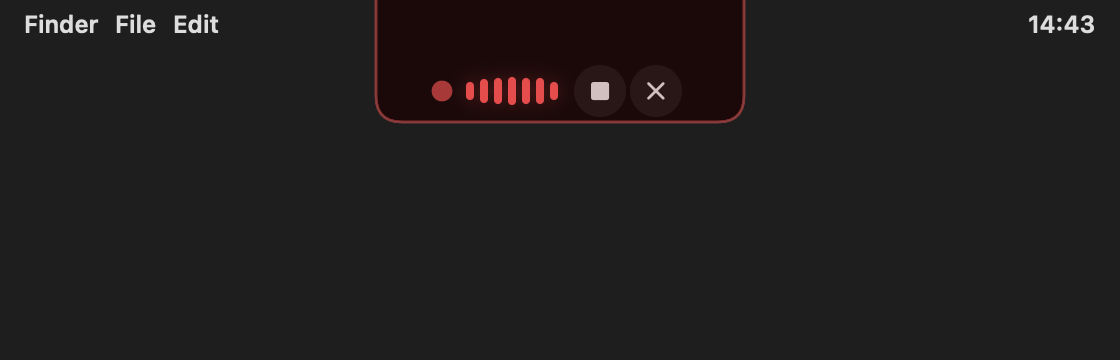
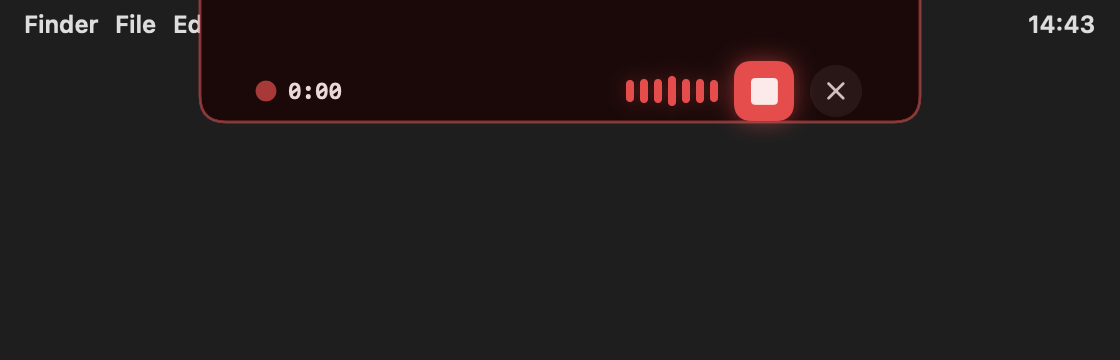
feat(flow-bar): v9 corrected — flank the island + bigger stop + soft corners
Etan-approved build (override 2026-06-11): apply the 3 verified-mock refinements
to v8's approved UI (#277 base).

- #2/#3 layout: recording indicators flank the camera island — left wing (● +
  elapsed timer), transparent island gap (Theme.notchIslandWidth), right wing
  (waveform + bigger ◼ stop + ✕ cancel). New recordingWings in BarView; recording
  pill width 154→330 to straddle the notch.
- bigger stop: Theme.stopButtonSize/stopButtonGlyphSize (30/16) — a red glowing ◼
  stopButton used in the recording wing and the speaking transport.
- #1 corners: NotchShape softens attached-panel corners by ~5px
  (Theme.notchAttachedCornerRadius) instead of v8's square 0 — '90° but curved a
  bit', not the rejected funnel. New NotchShape.cornerRadius(hasAttachedPanel:rectHeight:).
- VoiceState.recordingStartedAtForDisplay exposes the recording start for the wing timer.
- NotchV9RefinementTests: 8 contract tests. swift test 345/0. Native hitTest only —
  BoundaryContractTests (forbidden-API gate) stays green. Flanking is pure SwiftUI
  layout, no anchor/pointer code touched.

diff --git a/flow-bar/Sources/VoiceBarUI/BarView.swift b/flow-bar/Sources/VoiceBarUI/BarView.swift
@@ -155,6 +155,9 @@ public struct BarView: View {
         Group {
             if state.mode == .speaking {
                 speakingPanel
+            } else if state.mode == .recording {
+                // v9 refinement #2/#3: live indicators flank the camera island.
+                recordingWings
             } else {
                 HStack(spacing: 8) {
                     leadingIndicator
@@ -237,7 +240,7 @@ public struct BarView: View {
                     .help("Restart")
                 pillButton(icon: "pause.fill") {}
                     .help("Pause")
-                pillButton(icon: "stop.fill") { commandRouter.handleStop() }
+                stopButton { commandRouter.handleStop() }
                     .help("Stop")
                 if state.isBlockingQuestionWaitingForUser {
                     HStack(spacing: 5) {
@@ -615,6 +618,69 @@ public struct BarView: View {
             transcriptionVocabularyAliases: state.transcriptionVocabularyAliases,
             canReplay: state.canReplay
         )
+    }
+
+    // MARK: - v9 recording wings (flank the camera island)
+
+    private var recordingWings: some View {
+        HStack(spacing: 0) {
+            HStack(spacing: 7) {
+                PulsingDot()
+                recordingTimer
+            }
+            .frame(maxWidth: .infinity, alignment: .leading)
+
+            // Transparent gap straddling the physical camera island.
+            Color.clear.frame(width: Theme.notchIslandWidth, height: 1)
+
+            HStack(spacing: 8) {
+                WaveformView(
+                    mode: state.speechDetected ? .speechDetected : .listening,
+                    audioLevel: state.audioLevel
+                )
+                stopButton { commandRouter.handleStop() }
+                pillButton(icon: "xmark") { commandRouter.handleCancel() }
+            }
+            .frame(maxWidth: .infinity, alignment: .trailing)
+        }
+        .accessibilityElement(children: .combine)
+        .accessibilityLabel("Recording")
+    }
+
+    private var recordingTimer: some View {
+        TimelineView(.periodic(from: .now, by: 1)) { _ in
+            Text(recordingElapsedText)
+                .font(.system(size: 11, weight: .semibold, design: .monospaced))
+                .monospacedDigit()
+                .foregroundStyle(.white.opacity(0.92))
+        }
+    }
+
+    private var recordingElapsedText: String {
+        guard let start = state.recordingStartedAtForDisplay else { return "0:00" }
+        let elapsed = max(0, Date().timeIntervalSince(start))
+        let seconds = Int(elapsed)
+        return String(format: "%d:%02d", seconds / 60, seconds % 60)
+    }
+
+    /// v9 refinement: a visibly larger ◼ stop button (red fill + glow) — the primary CTA.
+    private func stopButton(action: @escaping () -> Void) -> some View {
+        Button {
+            NSHapticFeedbackManager.defaultPerformer.perform(.alignment, performanceTime: .now)
+            action()
+        } label: {
+            Image(systemName: "stop.fill")
+                .font(.system(size: Theme.stopButtonGlyphSize, weight: .bold))
+                .foregroundStyle(.white)
+                .frame(width: Theme.stopButtonSize, height: Theme.stopButtonSize)
+                .background(Theme.recordingColor)
+                .clipShape(RoundedRectangle(cornerRadius: 8, style: .continuous))
+                .shadow(color: Theme.recordingColor.opacity(0.55), radius: 6)
+                .contentShape(RoundedRectangle(cornerRadius: 8, style: .continuous))
+        }
+        .buttonStyle(.plain)
+        .accessibilityLabel("Stop")
+        .transition(.scale.combined(with: .opacity))
     }
 
     // MARK: - Action buttons

diff --git a/flow-bar/Tests/VoiceBarUITests/NotchV9RefinementTests.swift b/flow-bar/Tests/VoiceBarUITests/NotchV9RefinementTests.swift
@@ -1,0 +1,57 @@
+import CoreGraphics
+@testable import VoiceBarUI
+import XCTest
+
+/// v9 (corrected) refinements — Etan-approved build (override 2026-06-11).
+///   #1 corners: attached-panel corners get a SLIGHT few-px softening, NOT the funnel.
+///   #2/#3 layout: live indicators flank the camera island (reserved island gap).
+///   bigger stop: the ◼ stop button is visibly larger than a standard pill button.
+final class NotchV9RefinementTests: XCTestCase {
+    // MARK: - #1 corner softening (few px, not square, not funnel)
+
+    func testAttachedCornerRadiusIsSmallNonZeroSoftening() {
+        XCTAssertGreaterThan(Theme.notchAttachedCornerRadius, 0)
+        XCTAssertLessThanOrEqual(Theme.notchAttachedCornerRadius, 6)
+    }
+
+    func testAttachedSofteningIsSmallerThanFreeStandingRounding() {
+        XCTAssertLessThan(Theme.notchAttachedCornerRadius, Theme.notchCornerRadius)
+    }
+
+    func testNotchShapeAppliesSofteningWhenPanelAttached() {
+        XCTAssertEqual(
+            NotchShape.cornerRadius(hasAttachedPanel: true, rectHeight: 200),
+            Theme.notchAttachedCornerRadius, accuracy: 0.001
+        )
+        XCTAssertEqual(
+            NotchShape.cornerRadius(hasAttachedPanel: false, rectHeight: 200),
+            Theme.notchCornerRadius, accuracy: 0.001
+        )
+    }
+
+    func testNotchShapeCornerRadiusNeverExceedsHalfHeight() {
+        XCTAssertLessThanOrEqual(NotchShape.cornerRadius(hasAttachedPanel: false, rectHeight: 6), 3)
+    }
+
+    // MARK: - #2 flanking: recording reserves the island gap
+
+    func testRecordingWidthAccommodatesIslandPlusTwoWings() {
+        let width = Theme.pillContentWidth(for: .recording, statusText: "Listening")
+        // Must fit the camera island gap plus a wing on each side.
+        XCTAssertGreaterThan(width, Theme.notchIslandWidth + 80)
+    }
+
+    func testIslandWidthIsPositive() {
+        XCTAssertGreaterThan(Theme.notchIslandWidth, 0)
+    }
+
+    // MARK: - bigger stop
+
+    func testStopButtonIsLargerThanStandardPillButton() {
+        XCTAssertGreaterThan(Theme.stopButtonSize, Theme.pillActionButtonSize)
+    }
+
+    func testStopButtonGlyphIsLargerThanStandardPillGlyph() {
+        XCTAssertGreaterThan(Theme.stopButtonGlyphSize, 11)
+    }
+}

diff --git a/flow-bar/Sources/VoiceBarUI/Theme.swift b/flow-bar/Sources/VoiceBarUI/Theme.swift
@@ -37,6 +37,16 @@ public enum Theme {
     public static let notchSideRadius: CGFloat = 11
     public static let notchFusionBandHeight: CGFloat = 23
     public static let notchCornerRadius: CGFloat = 13
+    /// v9 refinement #1 — attached-panel bottom corners are SLIGHTLY softened
+    /// ("90° like v8 but curved a bit"), a few px, NOT the rejected funnel.
+    /// v8 used 0 (fully square) when a panel was attached.
+    public static let notchAttachedCornerRadius: CGFloat = 5
+    /// v9 refinement #2 — width of the transparent gap that straddles the physical
+    /// camera island, so live indicators flank it left + right at menu-bar height.
+    public static let notchIslandWidth: CGFloat = 128
+    /// v9 refinement — the ◼ stop button is visibly larger than a standard pill button.
+    public static let stopButtonSize: CGFloat = 30
+    public static let stopButtonGlyphSize: CGFloat = 16
     /// Fixed panel envelope that keeps AppKit out of resize loops without
     /// leaving a large invisible draggable surface around the pill.
     public static let panelWidth: CGFloat = 420
@@ -90,7 +100,9 @@ public enum Theme {
     ) -> CGFloat {
         switch mode {
         case .recording:
-            return 154
+            // v9 refinement #2: wide enough to flank the camera island — left wing
+            // (dot + timer) | island gap | right wing (waveform + ◼ stop + ✕ cancel).
+            return 330
         case .transcribing:
             return transcribingPillWidth(for: statusText)
         case .speaking:

diff --git a/flow-bar/Sources/VoiceBarUI/NotchShape.swift b/flow-bar/Sources/VoiceBarUI/NotchShape.swift
@@ -7,8 +7,15 @@ public struct NotchShape: Shape {
         self.hasAttachedPanel = hasAttachedPanel
     }
 
+    /// v9 refinement #1 — when a panel is attached the bottom corners are softened by a
+    /// few px (`Theme.notchAttachedCornerRadius`) instead of v8's hard square (0).
+    public static func cornerRadius(hasAttachedPanel: Bool, rectHeight: CGFloat) -> CGFloat {
+        let base = hasAttachedPanel ? Theme.notchAttachedCornerRadius : Theme.notchCornerRadius
+        return min(base, rectHeight / 2)
+    }
+
     public func path(in rect: CGRect) -> Path {
-        let radius = hasAttachedPanel ? 0 : min(Theme.notchCornerRadius, rect.height / 2)
+        let radius = NotchShape.cornerRadius(hasAttachedPanel: hasAttachedPanel, rectHeight: rect.height)
         var path = Path()
 
         path.move(to: CGPoint(x: rect.minX, y: rect.minY))

diff --git a/flow-bar/Sources/VoiceBarUI/VoiceState.swift b/flow-bar/Sources/VoiceBarUI/VoiceState.swift
@@ -146,6 +146,11 @@ public final class VoiceState {
     private var currentRecordingStartedAt: Date?
     private var currentRecordingDurationMs: Int?
 
+    /// Start time of the active recording, exposed so the v9 left wing can tick an elapsed timer.
+    public var recordingStartedAtForDisplay: Date? {
+        currentRecordingStartedAt
+    }
+
     /// Active STT vocabulary hints loaded from the daemon snapshot.
     public var transcriptionVocabularyTerms: [String] = [] {
         didSet { notifyPanelLayoutChangedIfNeeded(oldValue.isEmpty != transcriptionVocabularyTerms.isEmpty) }
